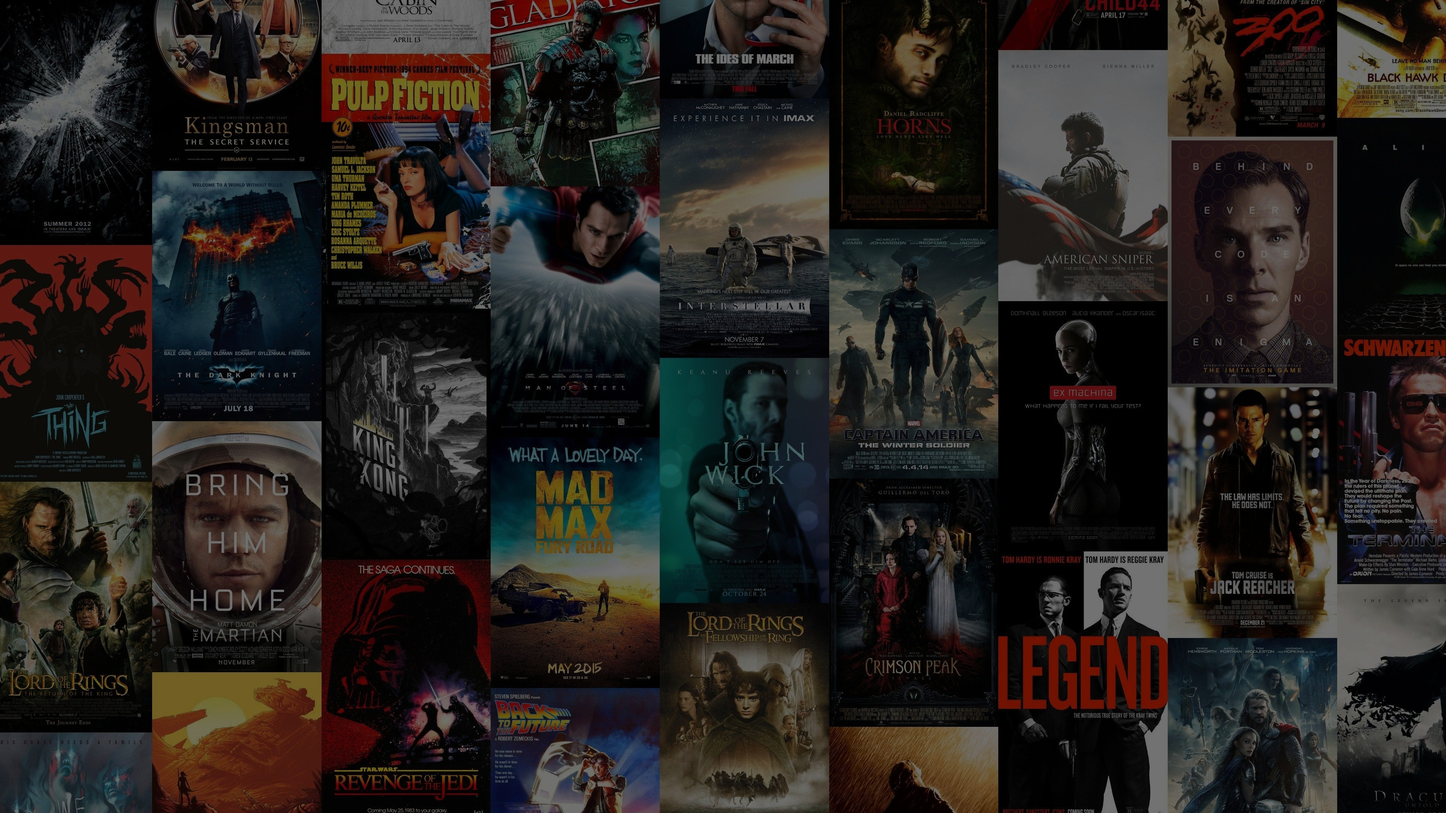
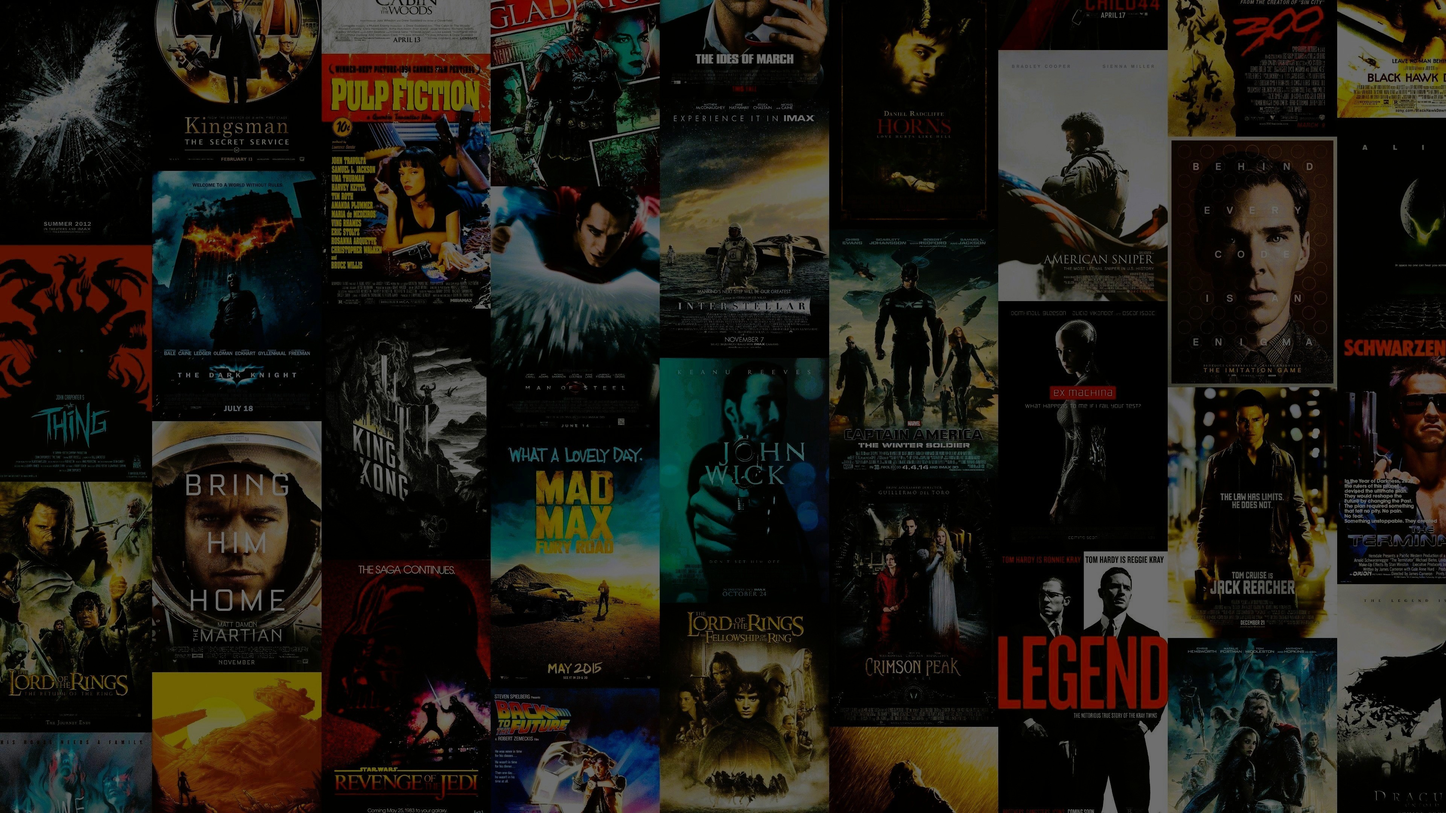
Footer Updated

diff --git a/src/common/components/Footer.jsx b/src/common/components/Footer.jsx
@@ -4,7 +4,7 @@ const Footer = () => {
     return (
         <div className="relative">
             {/* Overlay for background image opacity */}
-            <div className="absolute inset-0 bg-black opacity-90 z-0"></div>
+            <div className="absolute inset-0 bg-black opacity-60 z-0"></div>
 
             <footer className="relative z-10 bg-[url('/Footer4.jpg')] bg-cover bg-center bg-gray-200 text-gray-300 py-10 px-6 md:px-20">
                 <div className="max-w-7xl mx-auto grid grid-cols-1 md:grid-cols-3 gap-8">
@@ -12,14 +12,14 @@ const Footer = () => {
                     {/* Logo and Description */}
                     <div>
                         <div className='m-2'>
-                            <img src="https://img.freepik.com/premium-vector/movie-star-logo-design-vector-illustration_685330-3231.jpg?w=2000" alt="no-image" srcSet="" style={{ width: "200px", height: "150px" }} />
+                            <img src="/star.png" alt="no-image" srcSet="" style={{ width: "200px", height: "150px" }} />
                         </div>
                     </div>
 
                     {/* Navigation Links */}
                     <div className="grid grid-cols-2 gap-4">
-                        <div className='text-white'>
-                            <h3 className="text-2xl font-semibold text-white mb-2">Explore</h3>
+                        <div className='text-gray-100'>
+                            <h3 className="text-2xl font-semibold text-white-900 mb-2">Explore</h3>
                             <ul className="space-y-2 text-sm ">
                                 <li><a href="#" className="hover:text-green-400">Contact Us</a></li>
                                 <li><a href="#" className="hover:text-green-400">Terms of Service</a></li>
@@ -28,7 +28,7 @@ const Footer = () => {
                                 <li><a href="#" className="hover:text-green-400">Privacy Policy</a></li>
                             </ul>
                         </div>
-                        <div className='text-white'>
+                        <div className='text-gray-100'>
                             <h3 className="text-2xl font-semibold text-white mb-2">Highlights</h3>
                             <ul className="space-y-2 text-sm">
                                 <li><a href="#" className="hover:text-green-400">You Must Watch</a></li>
@@ -45,7 +45,7 @@ const Footer = () => {
                             <input
                                 type="email"
                                 placeholder="Enter your email"
-                                className="px-4 py-2 rounded bg-gray-800 text-white focus:outline-none focus:ring-2 focus:ring-indigo-500"
+                                className="px-4 py-2 rounded bg-gray-900 text-white focus:outline-none focus:ring-2 focus:ring-indigo-500"
                             />
                             <button
                                 type="submit"
@@ -58,7 +58,7 @@ const Footer = () => {
                 </div>
 
                 {/* Bottom Bar */}
-                <div className="mt-10 border-t border-red-800 pt-6 text-center text-sm text-gray-200">
+                <div className="mt-10 border-t border-red-700 pt-6 text-center text-sm text-gray-200">
                     Copyright @2025 All rights Reserved | The website is made with by Movie review
                 </div>
             </footer>
